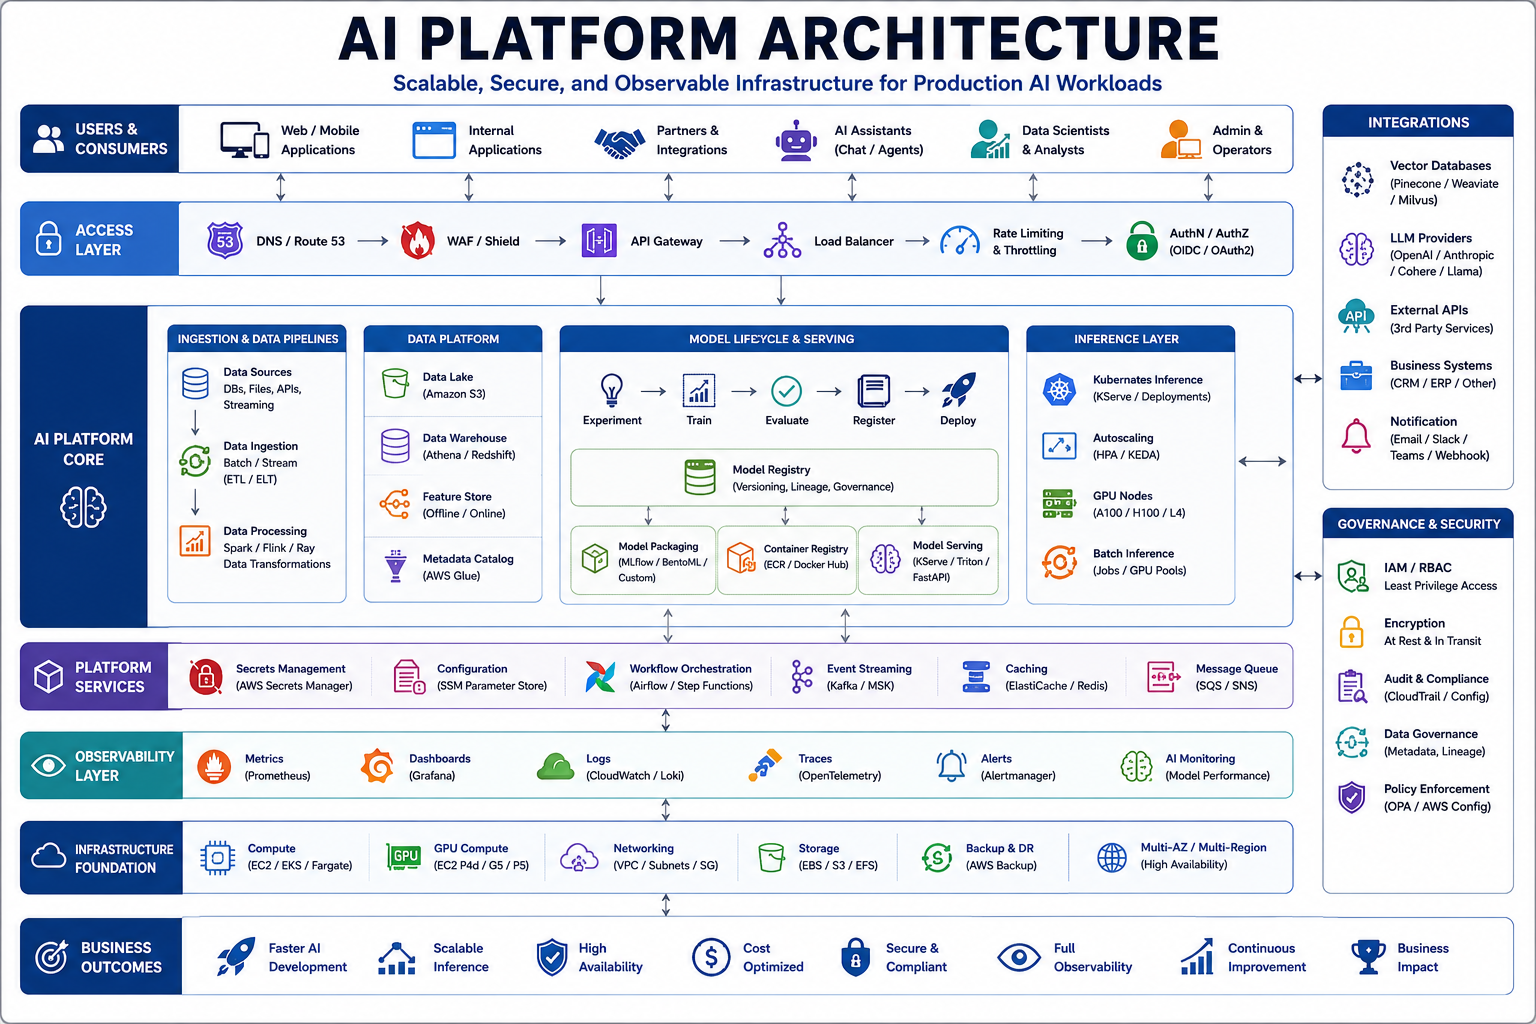
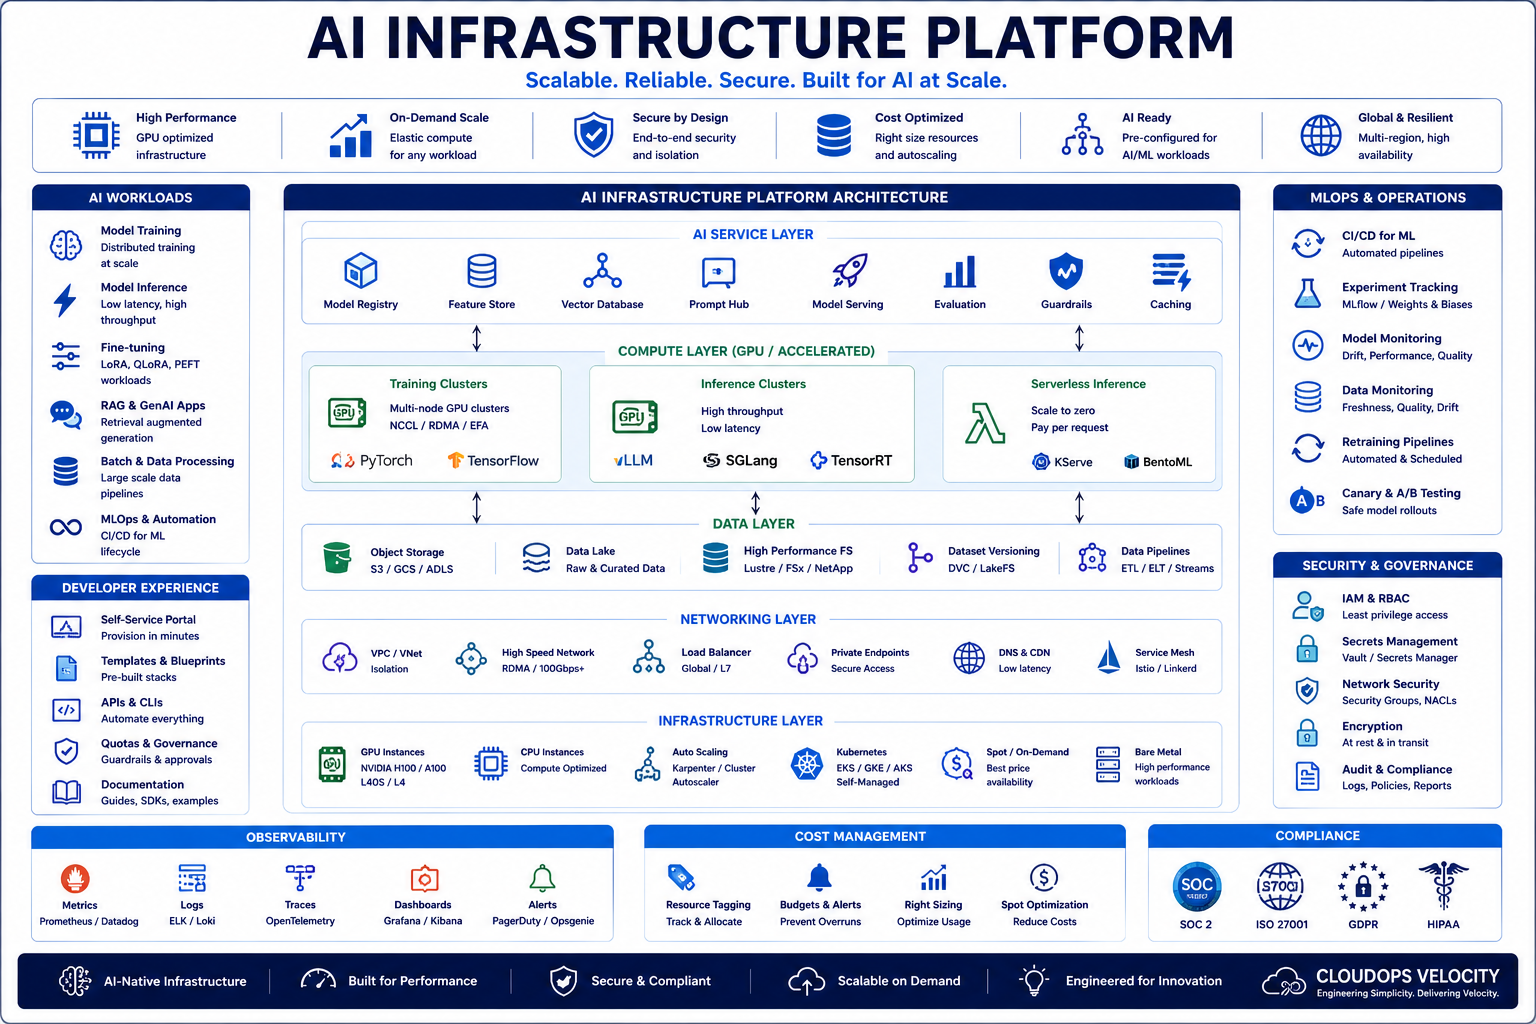
Updated the Repository

diff --git a/README.md b/README.md
@@ -857,7 +857,7 @@ Continuous Improvement
 
 <p align="center">
 
-<img src="assets/images/ai-infrastructure-platform.png" width="100%" alt="AI Platform Architecture">
+<img src="assets/images/ai-platform-architecture.png" width="100%" alt="AI Platform Architecture">
 
 </p>
 